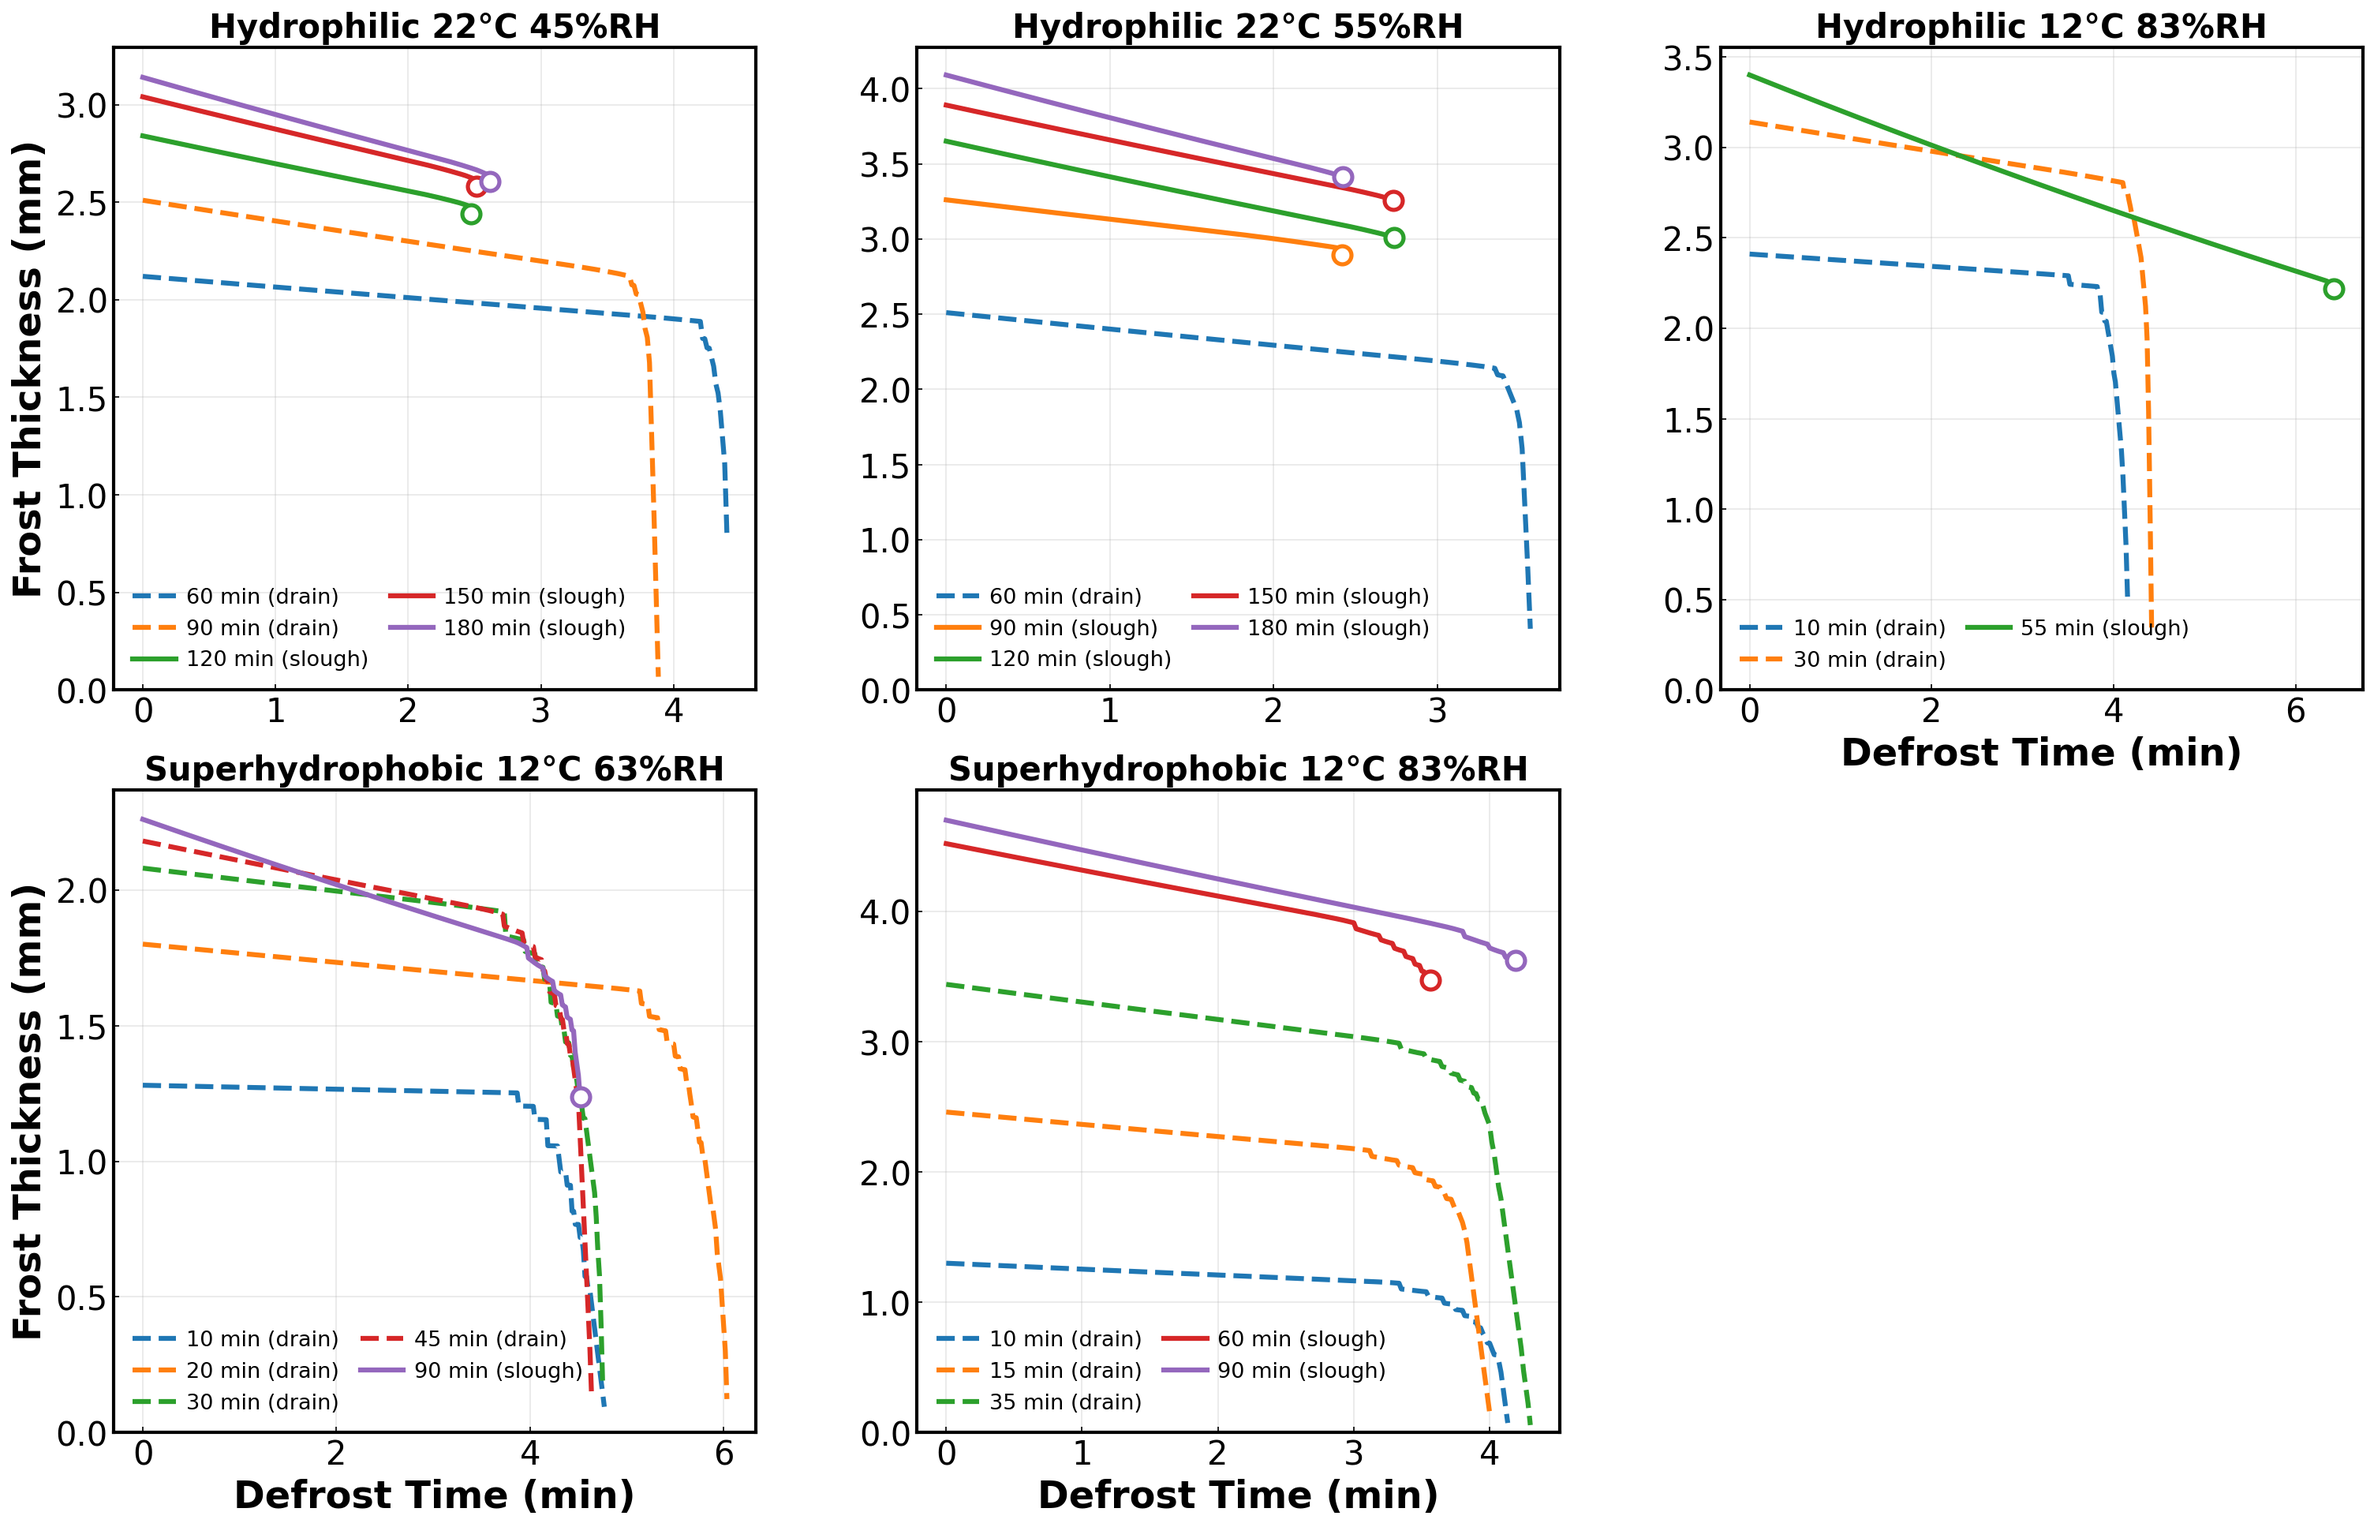
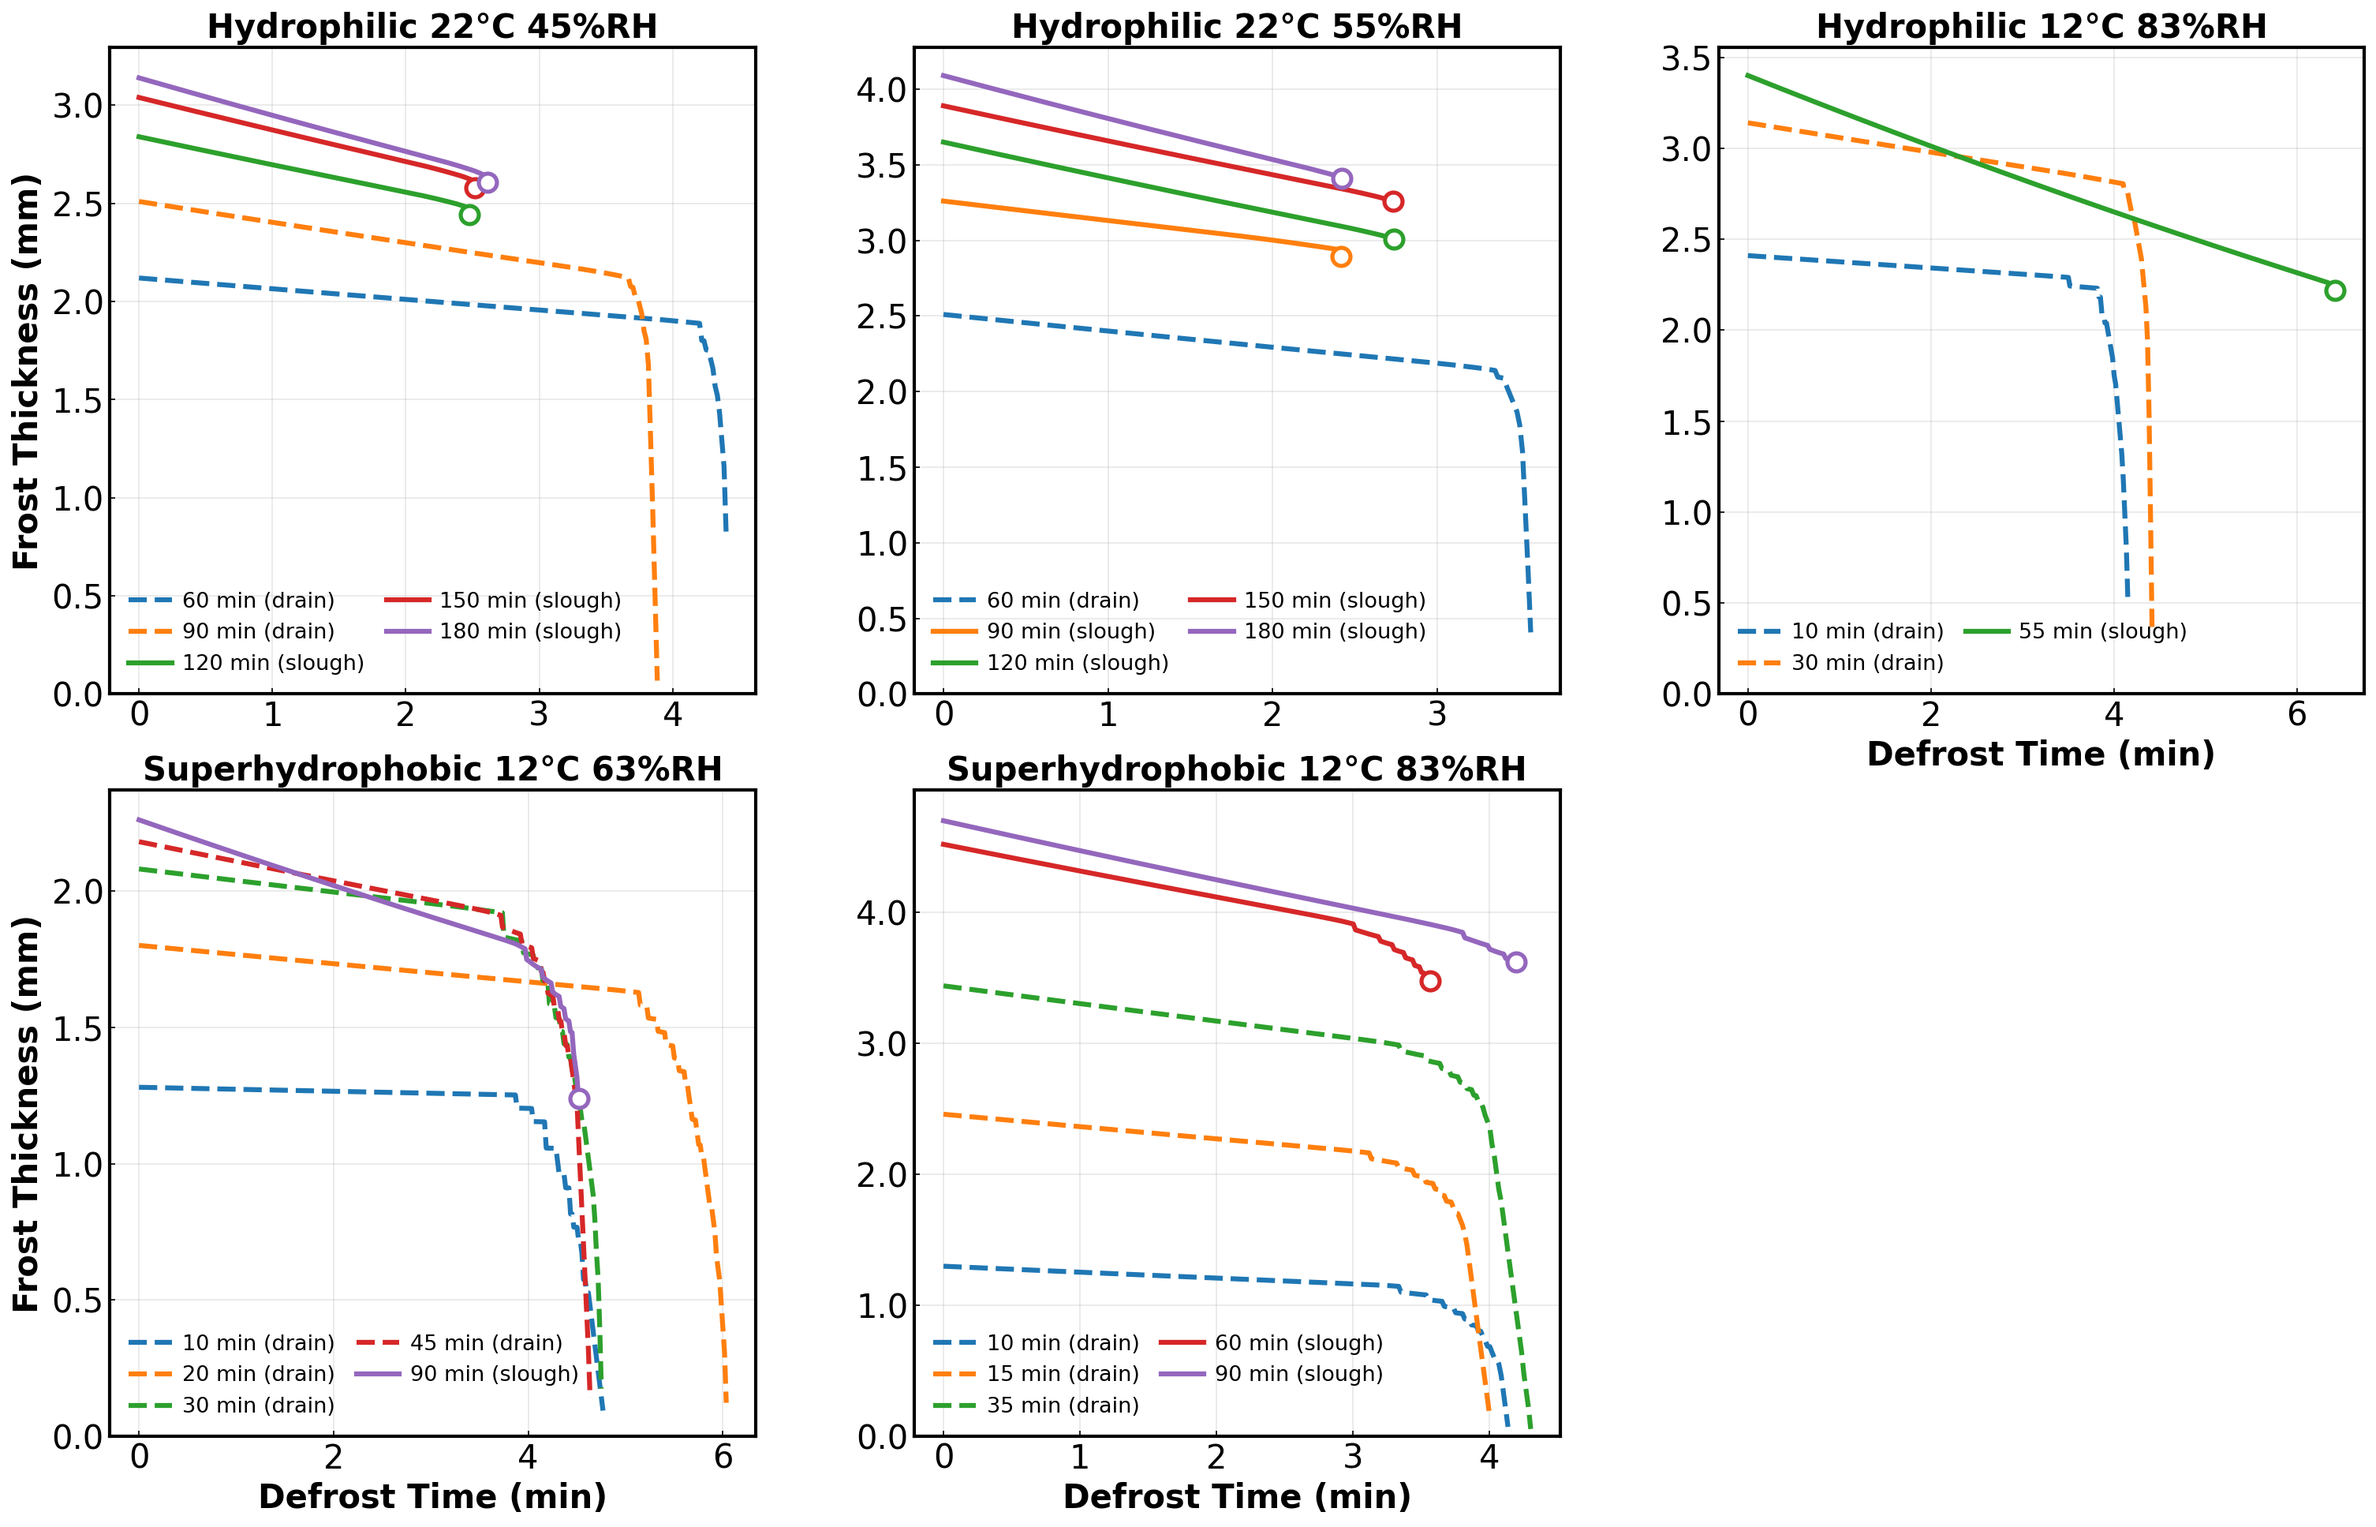
Match axis label font size to panel titles (20pt)

diff --git a/plot_defrost_thickness_comparison.py b/plot_defrost_thickness_comparison.py
@@ -455,13 +455,13 @@ def _plot_combined_condition_figure(quantity, ylabel, output_file,
 
     # Axis labels: y on left column, x on the lowest visible panel per column
     for row in range(n_rows):
-        axs[row * n_cols].set_ylabel(ylabel, fontsize=23, fontweight='bold')
+        axs[row * n_cols].set_ylabel(ylabel, fontsize=20, fontweight='bold')
     for col in range(n_cols):
         visible = [row * n_cols + col for row in range(n_rows)
                    if row * n_cols + col < n_conditions]
         if visible:
             axs[visible[-1]].set_xlabel('Defrost Time (min)',
-                                        fontsize=23, fontweight='bold')
+                                        fontsize=20, fontweight='bold')
 
     plt.tight_layout()
 
